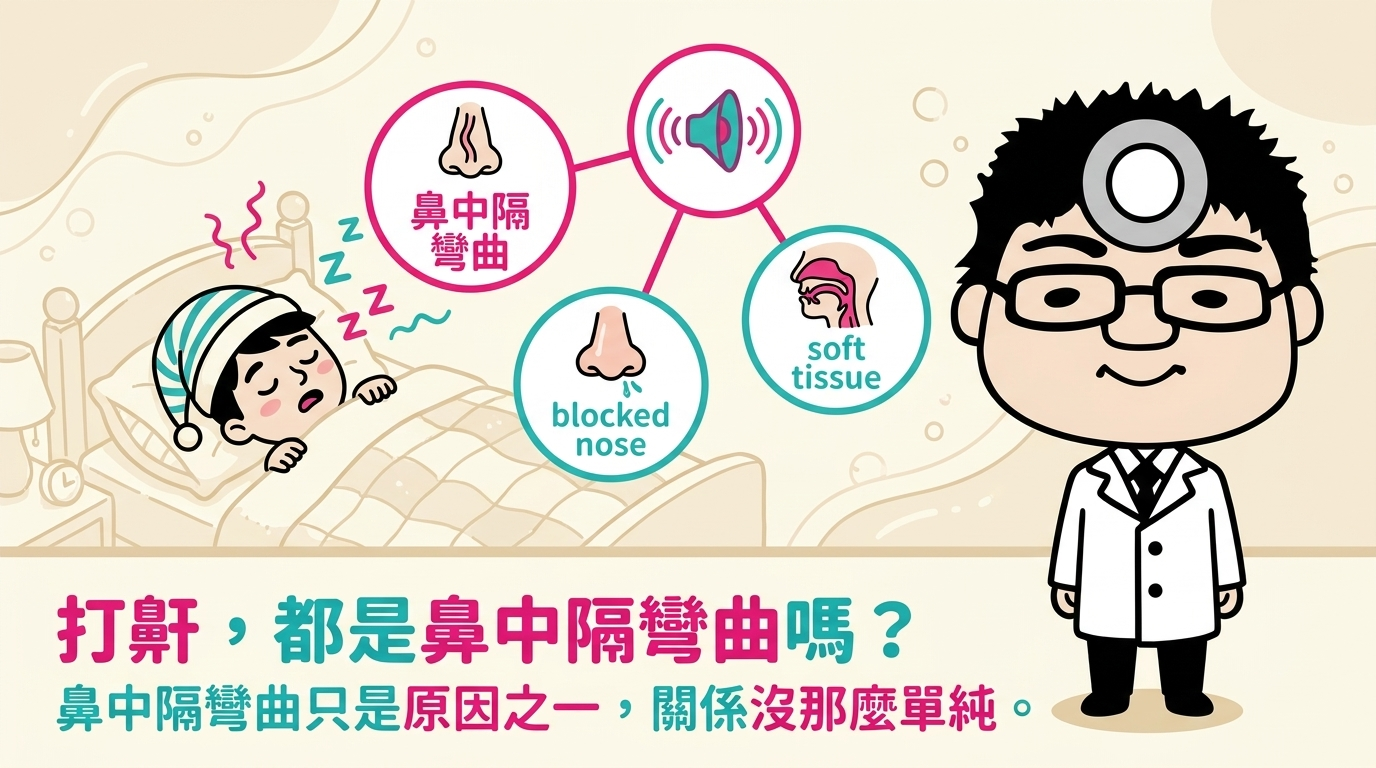
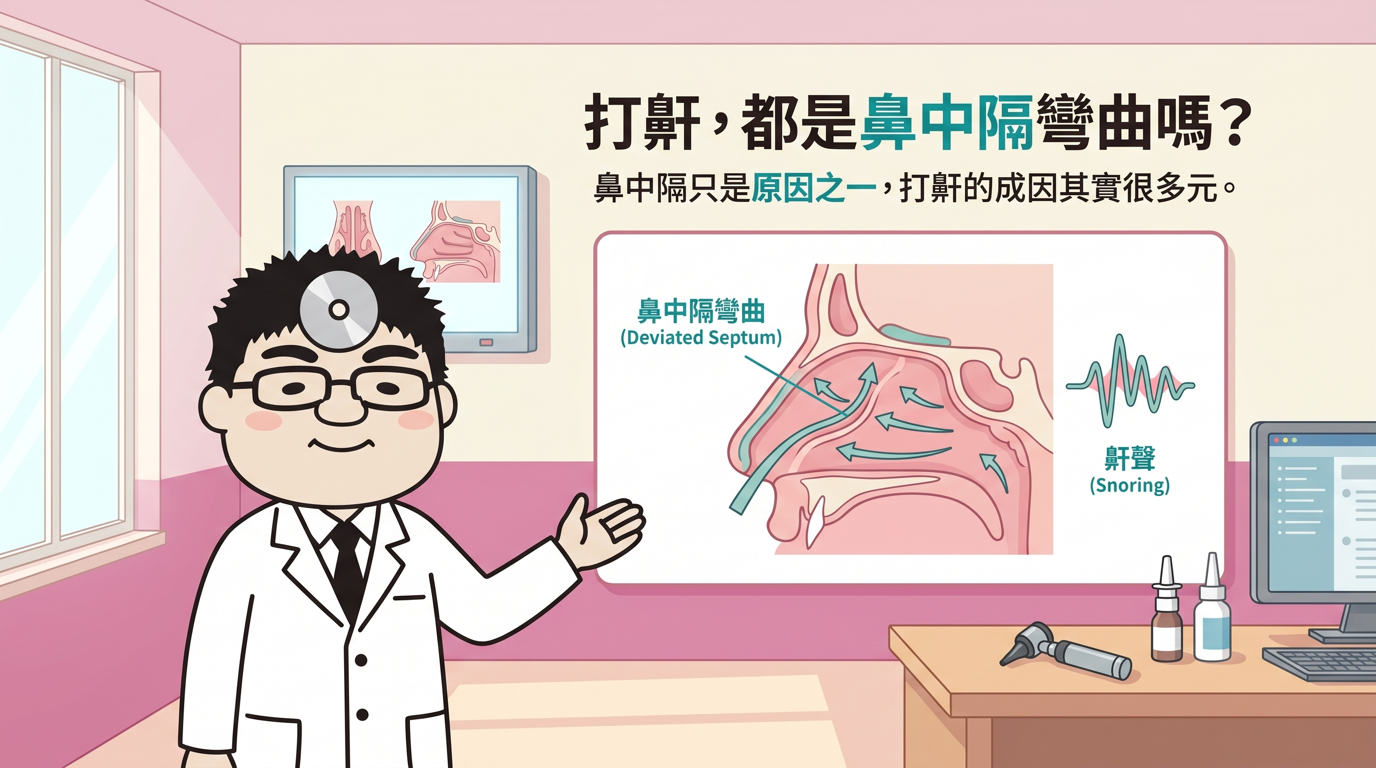
FAQ: replace 6 covers with regenerated full-bleed versions
q1/q7/q10/q14 = full-bleed; q4/q17 = full-bleed + corrected avatar.
2k sources downscaled to 1376x768; ?v=2 cache-bust on the 6 srcs in
faq.html and each faq-qN.html. q8 (text typo 軟顎) + q13/q15 avatar
still pending regeneration.

diff --git a/faq.html b/faq.html
@@ -298,7 +298,7 @@
 
         <a class="faq-card reveal" href="faq-q1.html">
           <figure class="photo-zone photo-zone--16x9 photo-zone--sm photo-zone--filled faq-card__media">
-            <img src="assets/faq/faq-q1.png" alt="診所醫師角色搭配夜間鼻塞影響睡眠的情境插圖，呈現鼻過敏與睡眠品質的關係" width="1376" height="768" loading="lazy" decoding="async">
+            <img src="assets/faq/faq-q1.png?v=2" alt="診所醫師角色搭配夜間鼻塞影響睡眠的情境插圖，呈現鼻過敏與睡眠品質的關係" width="1376" height="768" loading="lazy" decoding="async">
           </figure>
           <div class="faq-card__body">
             <span class="faq-card__tag">鼻過敏・睡眠</span>
@@ -334,7 +334,7 @@
 
         <a class="faq-card reveal" href="faq-q4.html">
           <figure class="photo-zone photo-zone--16x9 photo-zone--sm photo-zone--filled faq-card__media">
-            <img src="assets/faq/faq-q4.png" alt="診所醫師角色搭配兒童生長曲線圖表與睡眠元素插圖，呈現睡眠與生長的關係" width="1376" height="768" loading="lazy" decoding="async">
+            <img src="assets/faq/faq-q4.png?v=2" alt="診所醫師角色搭配兒童生長曲線圖表與睡眠元素插圖，呈現睡眠與生長的關係" width="1376" height="768" loading="lazy" decoding="async">
           </figure>
           <div class="faq-card__body">
             <span class="faq-card__tag">兒童睡眠呼吸中止</span>
@@ -370,7 +370,7 @@
 
         <a class="faq-card reveal" href="faq-q7.html">
           <figure class="photo-zone photo-zone--16x9 photo-zone--sm photo-zone--filled faq-card__media">
-            <img src="assets/faq/faq-q7.png" alt="診所醫師角色搭配鼻中隔結構示意圖與打鼾聲波元素" width="1376" height="768" loading="lazy" decoding="async">
+            <img src="assets/faq/faq-q7.png?v=2" alt="診所醫師角色搭配鼻中隔結構示意圖與打鼾聲波元素" width="1376" height="768" loading="lazy" decoding="async">
           </figure>
           <div class="faq-card__body">
             <span class="faq-card__tag">鼻部結構・打鼾</span>
@@ -406,7 +406,7 @@
 
         <a class="faq-card reveal" href="faq-q10.html">
           <figure class="photo-zone photo-zone--16x9 photo-zone--sm photo-zone--filled faq-card__media">
-            <img src="assets/faq/faq-q10.png" alt="診所醫師角色搭配下顎前移止鼾裝置的側面示意圖" width="1376" height="768" loading="lazy" decoding="async">
+            <img src="assets/faq/faq-q10.png?v=2" alt="診所醫師角色搭配下顎前移止鼾裝置的側面示意圖" width="1376" height="768" loading="lazy" decoding="async">
           </figure>
           <div class="faq-card__body">
             <span class="faq-card__tag">打鼾・止鼾裝置</span>
@@ -454,7 +454,7 @@
 
         <a class="faq-card reveal" href="faq-q14.html">
           <figure class="photo-zone photo-zone--16x9 photo-zone--sm photo-zone--filled faq-card__media">
-            <img src="assets/faq/faq-q14.png" alt="診所醫師角色搭配胃食道逆流經咽喉、耳咽管到中耳的關聯路徑示意圖" width="1376" height="768" loading="lazy" decoding="async">
+            <img src="assets/faq/faq-q14.png?v=2" alt="診所醫師角色搭配胃食道逆流經咽喉、耳咽管到中耳的關聯路徑示意圖" width="1376" height="768" loading="lazy" decoding="async">
           </figure>
           <div class="faq-card__body">
             <span class="faq-card__tag">中耳・胃食道逆流</span>
@@ -490,7 +490,7 @@
 
         <a class="faq-card reveal" href="faq-q17.html">
           <figure class="photo-zone photo-zone--16x9 photo-zone--sm photo-zone--filled faq-card__media">
-            <img src="assets/faq/faq-q17.png" alt="診所醫師角色搭配平穩鼾聲與停—喘—停間歇型鼾聲的概念波形對照圖" width="1376" height="768" loading="lazy" decoding="async">
+            <img src="assets/faq/faq-q17.png?v=2" alt="診所醫師角色搭配平穩鼾聲與停—喘—停間歇型鼾聲的概念波形對照圖" width="1376" height="768" loading="lazy" decoding="async">
           </figure>
           <div class="faq-card__body">
             <span class="faq-card__tag">打鼾・自我察覺</span>

diff --git a/faq-q1.html b/faq-q1.html
@@ -94,7 +94,7 @@
     <div class="wrap">
 
       <figure class="photo-zone photo-zone--16x9 photo-zone--filled faq-article__media reveal">
-        <img src="assets/faq/faq-q1.png" alt="診所醫師角色搭配夜間鼻塞影響睡眠的情境插圖，呈現鼻過敏與睡眠品質的關係" width="1376" height="768" loading="lazy" decoding="async">
+        <img src="assets/faq/faq-q1.png?v=2" alt="診所醫師角色搭配夜間鼻塞影響睡眠的情境插圖，呈現鼻過敏與睡眠品質的關係" width="1376" height="768" loading="lazy" decoding="async">
       </figure>
 
       <article class="faq-article faq-article--solo reveal">

diff --git a/faq-q4.html b/faq-q4.html
@@ -94,7 +94,7 @@
     <div class="wrap">
 
       <figure class="photo-zone photo-zone--16x9 photo-zone--filled faq-article__media reveal">
-        <img src="assets/faq/faq-q4.png" alt="診所醫師角色搭配兒童生長曲線圖表與睡眠元素插圖，呈現睡眠與生長的關係" width="1376" height="768" loading="lazy" decoding="async">
+        <img src="assets/faq/faq-q4.png?v=2" alt="診所醫師角色搭配兒童生長曲線圖表與睡眠元素插圖，呈現睡眠與生長的關係" width="1376" height="768" loading="lazy" decoding="async">
       </figure>
 
       <article class="faq-article faq-article--solo reveal">

diff --git a/faq-q14.html b/faq-q14.html
@@ -94,7 +94,7 @@
     <div class="wrap">
 
       <figure class="photo-zone photo-zone--16x9 photo-zone--filled faq-article__media reveal">
-        <img src="assets/faq/faq-q14.png" alt="診所醫師角色搭配胃食道逆流經咽喉、耳咽管到中耳的關聯路徑示意圖" width="1376" height="768" loading="lazy" decoding="async">
+        <img src="assets/faq/faq-q14.png?v=2" alt="診所醫師角色搭配胃食道逆流經咽喉、耳咽管到中耳的關聯路徑示意圖" width="1376" height="768" loading="lazy" decoding="async">
       </figure>
 
       <article class="faq-article faq-article--solo reveal">

diff --git a/faq-q17.html b/faq-q17.html
@@ -94,7 +94,7 @@
     <div class="wrap">
 
       <figure class="photo-zone photo-zone--16x9 photo-zone--filled faq-article__media reveal">
-        <img src="assets/faq/faq-q17.png" alt="診所醫師角色搭配平穩鼾聲與停—喘—停間歇型鼾聲的概念波形對照圖" width="1376" height="768" loading="lazy" decoding="async">
+        <img src="assets/faq/faq-q17.png?v=2" alt="診所醫師角色搭配平穩鼾聲與停—喘—停間歇型鼾聲的概念波形對照圖" width="1376" height="768" loading="lazy" decoding="async">
       </figure>
 
       <article class="faq-article faq-article--solo reveal">

diff --git a/faq-q7.html b/faq-q7.html
@@ -94,7 +94,7 @@
     <div class="wrap">
 
       <figure class="photo-zone photo-zone--16x9 photo-zone--filled faq-article__media reveal">
-        <img src="assets/faq/faq-q7.png" alt="診所醫師角色搭配鼻中隔結構示意圖與打鼾聲波元素" width="1376" height="768" loading="lazy" decoding="async">
+        <img src="assets/faq/faq-q7.png?v=2" alt="診所醫師角色搭配鼻中隔結構示意圖與打鼾聲波元素" width="1376" height="768" loading="lazy" decoding="async">
       </figure>
 
       <article class="faq-article faq-article--solo reveal">

diff --git a/faq-q10.html b/faq-q10.html
@@ -94,7 +94,7 @@
     <div class="wrap">
 
       <figure class="photo-zone photo-zone--16x9 photo-zone--filled faq-article__media reveal">
-        <img src="assets/faq/faq-q10.png" alt="診所醫師角色搭配下顎前移止鼾裝置的側面示意圖" width="1376" height="768" loading="lazy" decoding="async">
+        <img src="assets/faq/faq-q10.png?v=2" alt="診所醫師角色搭配下顎前移止鼾裝置的側面示意圖" width="1376" height="768" loading="lazy" decoding="async">
       </figure>
 
       <article class="faq-article faq-article--solo reveal">

diff --git a/docs/faq-images-map.md b/docs/faq-images-map.md
@@ -8,6 +8,11 @@ balanced colours per cover. 16:9, 1376×768.
 
 > Q3, Q4, Q9, Q10, Q12 are unchanged (you approved them). Q1, Q2, Q5, Q6, Q7, Q8, Q11, Q13, Q14, Q15,
 > Q16, Q17 were regenerated (avatar fixes / de-monochromed / red+dark removed).
+>
+> **2026-06-08 re-regeneration:** Q1, Q7, Q10, Q14 replaced with full-bleed versions; Q4, Q17 replaced
+> with full-bleed + corrected avatar. Filenames below updated. New 2k sources downscaled to 1376×768.
+> **Still pending regeneration:** Q8 (on-image text typo 軟鵒 → should be 軟顎), Q13, Q15 (avatar to be
+> redone when credits allow).
 
 > **Review before publishing:** proofread the Chinese in every image (headline + description +
 > infographic labels); §九 / 院長 sign-off on the copy; download promptly (CDN links may expire).
@@ -16,40 +21,40 @@ Base URL: `https://d8j0ntlcm91z4.cloudfront.net/user_3Eg5oMTXrF1SPt8NK97oTN5QtL1
 
 | # | Page | Palette | Headline | Image file |
 |---|------|---------|----------|------------|
-| 1 | faq-q1.html | gold + teal | 鼻過敏，為什麼讓你睡不好？ | hf_20260608_144509_acff02f8-b99c-486f-bd02-da76b9b9a6cd.png |
+| 1 | faq-q1.html | gold + teal | 鼻過敏，為什麼讓你睡不好？ | hf_20260608_154645_24f29781-7112-4be8-b648-59503dbb36dc.png |
 | 2 | faq-q2.html | turquoise + yellow | 鼻塞的夜晚，特別容易打鼾？ | hf_20260608_144513_2e6111b9-d5ef-4110-8a5e-f730c8ef1f7e.png |
 | 3 | faq-q3.html | lavender + mint | 孩子睡覺打呼，是腺樣體在作怪？ | hf_20260608_141752_b62e58f6-b806-41f8-b773-8245d4053efd.png |
-| 4 | faq-q4.html | green + yellow | 睡不好，會影響孩子長高嗎？ | hf_20260608_141759_c38b42bc-26b5-4d01-8100-212b1eba5991.jpeg |
+| 4 | faq-q4.html | green + yellow | 睡不好，會影響孩子長高嗎？ | hf_20260608_192404_34c1f813-163c-457c-85e8-0b78ce9faa63.png |
 | 5 | faq-q5.html | blush + sage | 長期張口呼吸，會改變臉型？ | hf_20260608_145644_c2d2a340-4090-49b8-b48a-6dd33b60396c.png |
 | 6 | faq-q6.html | amber + sky blue | 白天分心好動，竟和睡眠有關？ | hf_20260608_144523_8ef73f55-2e8e-44c0-a62a-b02dd52e9f84.png |
-| 7 | faq-q7.html | fuchsia + teal | 打鼾，都是鼻中隔彎曲嗎？ | hf_20260608_145647_bfdc6f21-363a-4816-b7cb-00ac0cccf42f.png |
+| 7 | faq-q7.html | fuchsia + teal | 打鼾，都是鼻中隔彎曲嗎？ | hf_20260608_155158_0da3da9e-15f5-481b-9e41-a8be80c8b6ea.png |
 | 8 | faq-q8.html | aqua + yellow | 打鼾，問題不只在鼻子 | hf_20260608_144655_0587a023-846c-4e14-a105-9f0164e0fb4e.png |
 | 9 | faq-q9.html | rose + sage | 女性也會打鼾、睡眠呼吸中止 | hf_20260608_142132_4683c6f7-42d4-45c8-ac0e-7b5deb3b4175.jpeg |
-| 10 | faq-q10.html | sky blue + sand | 止鼾牙套，是什麼？適合誰？ | hf_20260608_142134_c34f8c60-f319-46b8-8464-66501073ed30.png |
+| 10 | faq-q10.html | sky blue + sand | 止鼾牙套，是什麼？適合誰？ | hf_20260608_155201_b06874b3-b406-49c7-a7f2-51bf2c3d28f7.png |
 | 11 | faq-q11.html | lilac + mint | 打鼾與胃食道逆流，會互相影響？ | hf_20260608_144700_132f4844-9f5d-401c-841e-a6d647398f53.png |
 | 12 | faq-q12.html | day/night split | 成人睡眠呼吸中止的日夜線索 | hf_20260608_142143_ae864da0-b527-436e-ab6b-c85b6a5e8121.png |
 | 13 | faq-q13.html | periwinkle + green | 孩子打呼，不一定睡得香甜 | hf_20260608_144707_7a86b467-4454-4f6a-887b-05475b9f8fb9.png |
-| 14 | faq-q14.html | cornflower + yellow | 反覆中耳炎，和胃酸逆流有關？ | hf_20260608_145658_5f216ccd-bece-412f-88f7-c484a22281a8.jpeg |
+| 14 | faq-q14.html | cornflower + yellow | 反覆中耳炎，和胃酸逆流有關？ | hf_20260608_155204_a58e0db3-c690-49b8-98e7-6f11b46d9dd3.png |
 | 15 | faq-q15.html | sky blue + mint | 耳朵悶悶塞塞，原因在哪？ | hf_20260608_144844_5520a480-d33f-4db1-ba0d-119eee8dda25.png |
 | 16 | faq-q16.html | green + gold | 體重與打鼾，關係沒那麼單純 | hf_20260608_144848_3a30c81d-ef7b-4708-a0b8-5f3b5ab93197.png |
-| 17 | faq-q17.html | orchid + aqua | 停—喘—停，留意這種鼾聲 | hf_20260608_145614_38231c3a-f495-494d-88c8-0cfb8aa11c4a.jpeg |
+| 17 | faq-q17.html | orchid + aqua | 停一停一停，留意這種鼾聲 | hf_20260608_192202_d1b075d6-7de1-465b-b195-be201ed27b89.png |
 
 ## Full URLs (download these)
 
-1. https://d8j0ntlcm91z4.cloudfront.net/user_3Eg5oMTXrF1SPt8NK97oTN5QtL1/hf_20260608_144509_acff02f8-b99c-486f-bd02-da76b9b9a6cd.png
+1. https://d8j0ntlcm91z4.cloudfront.net/user_3Eg5oMTXrF1SPt8NK97oTN5QtL1/hf_20260608_154645_24f29781-7112-4be8-b648-59503dbb36dc.png  (regenerated 2026-06-08, full-bleed)
 2. https://d8j0ntlcm91z4.cloudfront.net/user_3Eg5oMTXrF1SPt8NK97oTN5QtL1/hf_20260608_144513_2e6111b9-d5ef-4110-8a5e-f730c8ef1f7e.png
 3. https://d8j0ntlcm91z4.cloudfront.net/user_3Eg5oMTXrF1SPt8NK97oTN5QtL1/hf_20260608_141752_b62e58f6-b806-41f8-b773-8245d4053efd.png
-4. https://d8j0ntlcm91z4.cloudfront.net/user_3Eg5oMTXrF1SPt8NK97oTN5QtL1/hf_20260608_141759_c38b42bc-26b5-4d01-8100-212b1eba5991.jpeg
+4. https://d8j0ntlcm91z4.cloudfront.net/user_3Eg5oMTXrF1SPt8NK97oTN5QtL1/hf_20260608_192404_34c1f813-163c-457c-85e8-0b78ce9faa63.png  (regenerated 2026-06-08, full-bleed + corrected avatar)
 5. https://d8j0ntlcm91z4.cloudfront.net/user_3Eg5oMTXrF1SPt8NK97oTN5QtL1/hf_20260608_145644_c2d2a340-4090-49b8-b48a-6dd33b60396c.png
 6. https://d8j0ntlcm91z4.cloudfront.net/user_3Eg5oMTXrF1SPt8NK97oTN5QtL1/hf_20260608_144523_8ef73f55-2e8e-44c0-a62a-b02dd52e9f84.png
-7. https://d8j0ntlcm91z4.cloudfront.net/user_3Eg5oMTXrF1SPt8NK97oTN5QtL1/hf_20260608_145647_bfdc6f21-363a-4816-b7cb-00ac0cccf42f.png
+7. https://d8j0ntlcm91z4.cloudfront.net/user_3Eg5oMTXrF1SPt8NK97oTN5QtL1/hf_20260608_155158_0da3da9e-15f5-481b-9e41-a8be80c8b6ea.png  (regenerated 2026-06-08, full-bleed)
 8. https://d8j0ntlcm91z4.cloudfront.net/user_3Eg5oMTXrF1SPt8NK97oTN5QtL1/hf_20260608_144655_0587a023-846c-4e14-a105-9f0164e0fb4e.png
 9. https://d8j0ntlcm91z4.cloudfront.net/user_3Eg5oMTXrF1SPt8NK97oTN5QtL1/hf_20260608_142132_4683c6f7-42d4-45c8-ac0e-7b5deb3b4175.jpeg
-10. https://d8j0ntlcm91z4.cloudfront.net/user_3Eg5oMTXrF1SPt8NK97oTN5QtL1/hf_20260608_142134_c34f8c60-f319-46b8-8464-66501073ed30.png
+10. https://d8j0ntlcm91z4.cloudfront.net/user_3Eg5oMTXrF1SPt8NK97oTN5QtL1/hf_20260608_155201_b06874b3-b406-49c7-a7f2-51bf2c3d28f7.png  (regenerated 2026-06-08, full-bleed)
 11. https://d8j0ntlcm91z4.cloudfront.net/user_3Eg5oMTXrF1SPt8NK97oTN5QtL1/hf_20260608_144700_132f4844-9f5d-401c-841e-a6d647398f53.png
 12. https://d8j0ntlcm91z4.cloudfront.net/user_3Eg5oMTXrF1SPt8NK97oTN5QtL1/hf_20260608_142143_ae864da0-b527-436e-ab6b-c85b6a5e8121.png
 13. https://d8j0ntlcm91z4.cloudfront.net/user_3Eg5oMTXrF1SPt8NK97oTN5QtL1/hf_20260608_144707_7a86b467-4454-4f6a-887b-05475b9f8fb9.png
-14. https://d8j0ntlcm91z4.cloudfront.net/user_3Eg5oMTXrF1SPt8NK97oTN5QtL1/hf_20260608_145658_5f216ccd-bece-412f-88f7-c484a22281a8.jpeg
+14. https://d8j0ntlcm91z4.cloudfront.net/user_3Eg5oMTXrF1SPt8NK97oTN5QtL1/hf_20260608_155204_a58e0db3-c690-49b8-98e7-6f11b46d9dd3.png  (regenerated 2026-06-08, full-bleed)
 15. https://d8j0ntlcm91z4.cloudfront.net/user_3Eg5oMTXrF1SPt8NK97oTN5QtL1/hf_20260608_144844_5520a480-d33f-4db1-ba0d-119eee8dda25.png
 16. https://d8j0ntlcm91z4.cloudfront.net/user_3Eg5oMTXrF1SPt8NK97oTN5QtL1/hf_20260608_144848_3a30c81d-ef7b-4708-a0b8-5f3b5ab93197.png
-17. https://d8j0ntlcm91z4.cloudfront.net/user_3Eg5oMTXrF1SPt8NK97oTN5QtL1/hf_20260608_145614_38231c3a-f495-494d-88c8-0cfb8aa11c4a.jpeg
+17. https://d8j0ntlcm91z4.cloudfront.net/user_3Eg5oMTXrF1SPt8NK97oTN5QtL1/hf_20260608_192202_d1b075d6-7de1-465b-b195-be201ed27b89.png  (regenerated 2026-06-08, full-bleed + corrected avatar)

diff --git a/progress.md b/progress.md
@@ -2,7 +2,22 @@
 
 Orientation note for the next session. See `site-spec.md` for the full content brief (source of truth) and `CLAUDE.md` for the rules (design rules + compliance live there).
 
-_Last updated: 2026-06-08 (session 32)_
+_Last updated: 2026-06-08 (session 33)_
+
+## 🗓 2026-06-08 (session 33) — 衛教專欄 6 張封面以重生成的滿版（full-bleed）版本替換（q4／q17 並修正吉祥物）
+
+把 6 張衛教專欄封面（`faq-q1／q4／q7／q10／q14／q17`）替換為重新生成的**滿版（full-bleed）**版本：q1／q7／q10／q14＝滿版；q4／q17＝滿版＋**修正吉祥物**（院長 ENT 醫師臉部／頭鏡／白袍還原）。動到 `assets/faq/`（6 張 PNG 覆寫）、`faq.html`、6 篇 `faq-qN.html`（加 `?v=2` cache-bust）、`docs/faq-images-map.md`。
+
+- **下載與資產（`assets/faq/`，6 張覆寫）。** 從 CloudFront（連結會過期）即時 `curl` 下載 6 張 2k 原圖（2752×1536，皆 HTTP 200、>4MB、真 PNG），以同檔名覆寫舊版；再用 `sips -z 768 1376` **下採樣到 1376×768** 以對齊其餘 11 張封面的尺寸與檔案大小（約 1.2–1.4MB）。q8（圖內錯字 軟鵒→軟顎）、q13、q15 依指示**不動**，留待後續重生成。
+- **Cache-bust。** 僅對這 6 張被替換的 `<img src>` 在 `faq.html` 與各自 `faq-qN.html` 追加 `?v=2`（共 12 處，已逐處核對一致），讓 CDN／瀏覽器顯示新圖；markup／CSS 結構無其他變動（仍走 `.photo-zone--filled`＋`object-fit:cover`）。
+- **`docs/faq-images-map.md` 更新。** 將 q1／q4／q7／q10／q14／q17 的表格列與「Full URLs」換成新檔名，標注 2026-06-08 重生成（q1／q7／q10／q14＝full-bleed；q4／q17＝full-bleed＋修正吉祥物）；新增 TODO：q8（圖內錯字 軟顎）、q13、q15 仍待重生成。
+
+### 驗證（clinic-audit report-only）
+- **§九**：6 變更頁無 保證／根治／唯一／第一／必須／一定要／最〔上級〕（`最` 命中皆 最新 nav）；無費用；`[0-9]%` 命中為 CSS `border-radius:50%`；7 頁頁尾免責聲明齊全。
+- **設計規則**：變更檔無 gradient／backdrop-filter／filter:blur／drop-shadow／`transition:all`；新圖皆 16:9、`object-fit:cover` 滿版裁切於圓角框內、未撐框未溢出（本機 `http://localhost:8000` 預覽，頁面與 6 圖皆 HTTP 200）。
+- **無障礙**：變更頁 `<img>` 全具描述性 alt（仍與新圖主題相符）；html lang zh-Hant。
+- **逐張視覺核對**：6 張吉祥物忠實（圓臉、黑框眼鏡、額頭頭鏡、白袍、同一成年男性）、滿版情境設定、主題資訊圖正確；中文標題／描述字形正常。
+- **待院長簽核（已 flag、不擋）**：新圖內描述文案待院長 §九 簽核；**q14** 圖內描述疑似「耳咽管」誤植為「耳耳嚨管」（圖中解剖標籤本身正確），列入院長校對。
 
 ## 🗓 2026-06-08 (session 32) — 衛教專欄 17 張院長核准吉祥物資訊圖配圖上線（文章頁＋卡片）；CLAUDE.md 新增 FAQ/部落格封面插畫風格節
 
